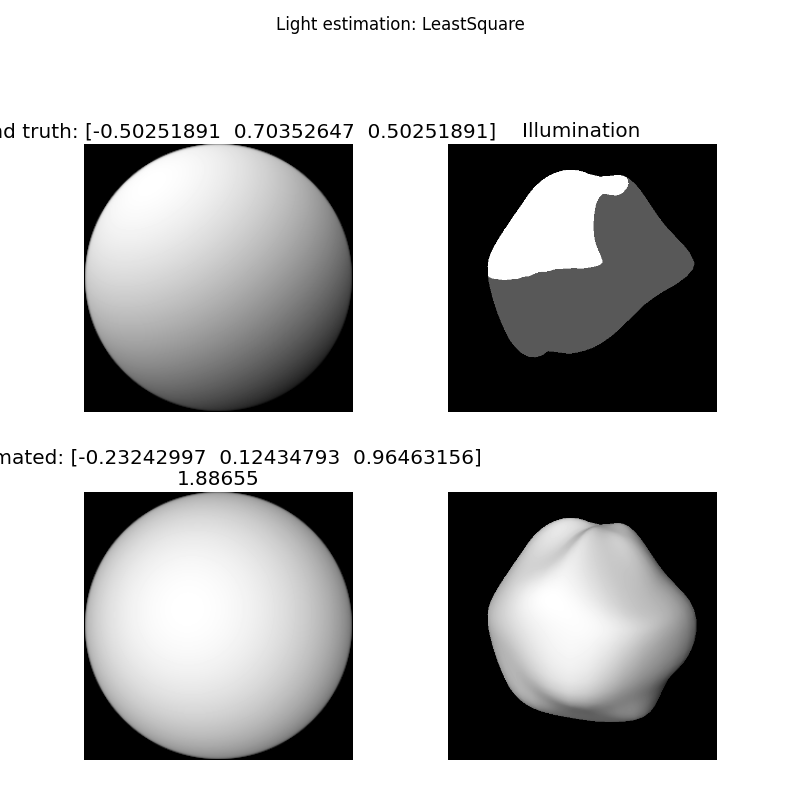
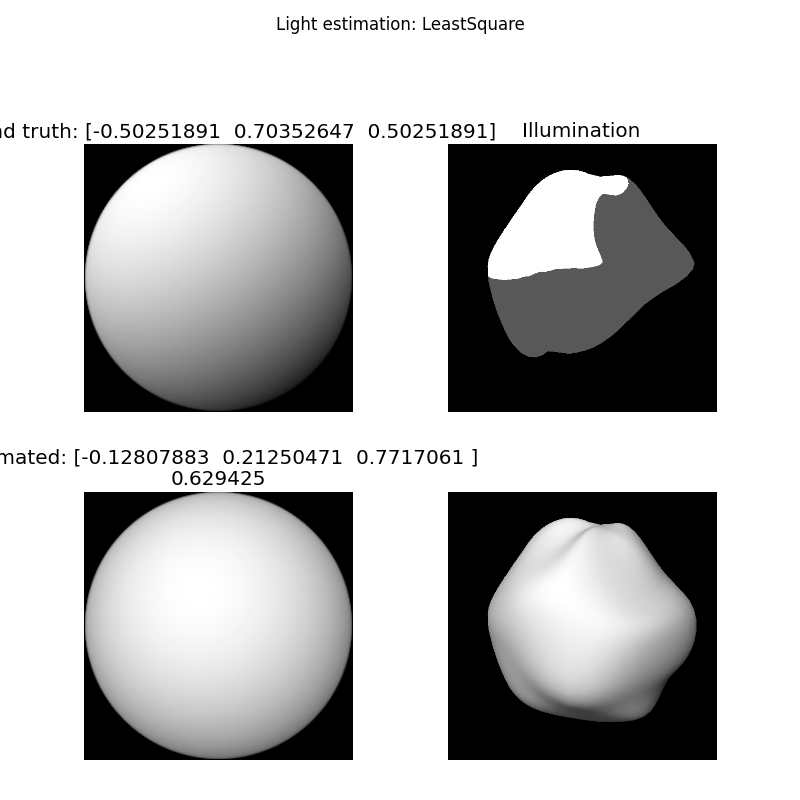
Update 3D projection code.

diff --git a/inversetoon/batch/cone_vs_project.py b/inversetoon/batch/cone_vs_project.py
@@ -19,6 +19,8 @@ from inversetoon.core.coloring import scalarToColor, scalarMap, colorNorm
 from inversetoon.np.norm import normVectors
 
 from inversetoon.util.logger import getLogger
+from inversetoon.results.results import resultDir, resultFile
+from inversetoon.core.angle import angleErros
 logger = getLogger(__name__)
 
 
@@ -32,6 +34,12 @@ def computeData(scene):
         isophote_segments = isophote_curve.toCurveSegments()
 
         for isophote_segment in isophote_segments:
+            L = isophote_segment.lightDir()
+            isophote_segment = isophote_segment.divide(int(0.2 * isophote_segment.numPoints()), int(0.5 * isophote_segment.numPoints()))
+
+            if isophote_segment.numPoints() < 3:
+                continue
+
             I = isophote_segment.isoValue()
             I = 2.0 * I - 1.0
 
@@ -46,12 +54,12 @@ def computeData(scene):
             tangents_2D = isophote_segment.tangents()
             tangents_3D = projectTangent3D(tangents_2D, normals_3D)
 
-            normals_3D = projectIteration(tangents_3D, normals_3D, parameters, 20)
+            normals_3D = projectIteration(L, I, tangents_3D, normals_3D, parameters, 40)
 
             ps = isophote_segment.points()
 
-            normals_al_error = normVectors(normals_gt - normals_al)
-            normals_3d_error = normVectors(normals_gt - normals_3D)
+            normals_al_error = angleErros(normals_gt, normals_al)
+            normals_3d_error = angleErros(normals_gt, normals_3D)
 
             data_list.append({"ps": ps,
                               "normals_gt": normals_gt,
@@ -62,62 +70,73 @@ def computeData(scene):
     return data_list
 
 
-def datasetFunc(data_name):
-    scene = loadData(data_name)
-    data_list = computeData(scene)
+def arcVSprojectFigure(scnene_plotter, data_name, segment_id, result_data):
+    fig, axes = plt.subplots(nrows=2, ncols=1, figsize=(11, 5))
+    font_size = 15
+    fig.subplots_adjust(left=0.15, right=0.9, top=0.86, hspace=0.1, wspace=0.05)
+    fig.suptitle("Arc Length VS Project 3D", fontsize=font_size)
 
-    plotter = ScenePlotter(scene, plt)
-
-    plt.title('Arc length VS Project 3D')
     plt.subplot(131)
-    plt.title('Normal Vectors')
-    plotter.showNormalImage()
+    plt.title('Normal Vectors\n', fontsize=font_size)
+    scnene_plotter.showNormalImage()
+    plt.axis('off')
 
     legend_gt = ("Ground truth", (1.0, 0.0, 0.0))
     legend_al = ("Arc length", (0.0, 1.0, 0.0))
     legend_3d = ("Project 3D", (0.0, 0.0, 1.0))
 
-    for data in data_list:
-        plotVectors(plt, data["ps"], data["normals_gt"], color=legend_gt[1])
-        plotVectors(plt, data["ps"], data["normals_al"], color=legend_al[1])
-        plotVectors(plt, data["ps"], data["normals_3D"], color=legend_3d[1])
+    plotVectors(plt, result_data["ps"], result_data["normals_gt"], color=legend_gt[1], l=70, step=2)
+    plotVectors(plt, result_data["ps"], result_data["normals_al"], color=legend_al[1], l=70, step=2)
+    plotVectors(plt, result_data["ps"], result_data["normals_3D"], color=legend_3d[1], l=70, step=2)
 
-    plt.legend(handles=[mpatches.Patch(color=legend_gt[1], label=legend_gt[0]),
+    plt.legend(bbox_to_anchor=(0.2, 1), handles=[mpatches.Patch(color=legend_gt[1], label=legend_gt[0]),
                         mpatches.Patch(color=legend_al[1], label=legend_al[0]),
                         mpatches.Patch(color=legend_3d[1], label=legend_3d[0])])
-    error_max = 0.0
+    error_max = 30.0
     error_min = 0.0
-    for data in data_list:
-        error_max = np.max([error_max, np.max(data["normals_al_error"])])
-        error_max = np.max([error_max, np.max(data["normals_3d_error"])])
-
-    logger.debug("error_range: %s - %s" %(error_min, error_max))
 
     plt.subplot(132)
-    plotter.showNormalImage()
-    plt.title('Arc length error')
-    for data in data_list:
-        error_colors = scalarToColor(data["normals_al_error"], vmin=error_min, vmax=error_max)
-
-        plotSegment(plt, data["ps"], error_colors)
-
-    scalar_map = scalarMap(error_min, error_max)
-    scalar_map.set_array([error_min, error_max])
-    plt.colorbar(scalar_map)
+    scnene_plotter.showNormalImage()
+    plt.axis('off')
+    plt.title('Arc length error\n %5.2f $^\circ$' %np.average(result_data["normals_al_error"]), fontsize=font_size)
+    error_colors = scalarToColor(result_data["normals_al_error"], vmin=error_min, vmax=error_max)
+    plotSegment(plt, result_data["ps"], error_colors)
 
     plt.subplot(133)
-    plotter.showNormalImage()
-    plt.title('Project 3D error')
-    for data in data_list:
-        error_colors = scalarToColor(data["normals_3d_error"], vmin=error_min, vmax=error_max)
+    scnene_plotter.showNormalImage()
+    plt.axis('off')
+    plt.title('Project 3D error\n %5.2f $^\circ$' %np.average(result_data["normals_3d_error"]), fontsize=font_size)
+    error_colors = scalarToColor(result_data["normals_3d_error"], vmin=error_min, vmax=error_max)
+    plotSegment(plt, result_data["ps"], error_colors)
 
-        plotSegment(plt, data["ps"], error_colors)
+    ax_colorbar = fig.add_axes([0.9, 0.15, 0.03, 0.7])
 
     scalar_map = scalarMap(error_min, error_max)
     scalar_map.set_array([error_min, error_max])
-    plt.colorbar(scalar_map)
-    showMaximize()
+    fig.colorbar(scalar_map, cax=ax_colorbar)
 
+    result_name = "arc_vs_project"
+    result_dir = resultDir(result_name)
+
+    result_file = resultFile(result_dir, data_name + "_%s" % segment_id)
+    plt.savefig(result_file, transparent=True)
+
+
+def resultDataFunc(scnene_plotter, data_name, segment_id, result_data):
+    if len(result_data["ps"]) < 30:
+        return
+
+    arcVSprojectFigure(scnene_plotter, data_name, segment_id, result_data)
+
+
+def datasetFunc(data_name):
+    scene = loadData(data_name)
+    result_data_list = computeData(scene)
+
+    scnene_plotter = ScenePlotter(scene, plt)
+
+    for i, result_data in enumerate(result_data_list):
+        resultDataFunc(scnene_plotter, data_name, i, result_data)
 
 if __name__ == '__main__':
     isophoteDataSetBatch(datasetFunc)

diff --git a/inversetoon/batch/cone_vs_curvature.py b/inversetoon/batch/cone_vs_curvature.py
@@ -75,7 +75,8 @@ def computeData(scene):
             I = 2.0 * I - 1.0
 
             curvatures = isophote_segment.curvatures()
-            curvatures = smoothing(curvatures, smooth=20.0)
+            curvatures = smoothing(curvatures, smooth=15.0)
+            curvatures = curvatures / np.max(np.abs(curvatures))
 
             normals_gt = isophote_segment.normals()
             parameters = isophote_segment.arcLengthParameters()
@@ -89,6 +90,7 @@ def computeData(scene):
 
             cone_angle_changes = isophote_segment.coneAngleChanges()
             cone_angle_changes = smoothing(cone_angle_changes, smooth=0.05)
+            cone_angle_changes = cone_angle_changes / np.max(np.abs(cone_angle_changes))
 
             misclassification = curvatures * cone_angle_changes
 
@@ -114,7 +116,7 @@ def curvatureVSconeAnglesFigure(scnene_plotter, data_name, segment_id, result_da
     fig, axes = plt.subplots(nrows=2, ncols=1, figsize=(11, 5))
     font_size = 15
     fig.subplots_adjust(left=0.05, right=0.95, top=0.86, hspace=0.1, wspace=0.05)
-    fig.suptitle("Curvature VS Cone Angles", fontsize=font_size)
+    fig.suptitle("Curvature VS Cone Angle", fontsize=font_size)
 
     plt.subplot(131)
     scnene_plotter.showNormalImage()
@@ -125,7 +127,7 @@ def curvatureVSconeAnglesFigure(scnene_plotter, data_name, segment_id, result_da
     plt.subplot(132)
     scnene_plotter.showNormalImage()
     plt.axis('off')
-    plt.title('Cone Angles\n', fontsize=font_size)
+    plt.title('Cone Angle\n', fontsize=font_size)
     plotFeatureChanges(plt, result_data["ps"], result_data["cone_angle_changes"])
 
     plt.subplot(133)
@@ -147,19 +149,21 @@ def curvatureVSconeAnglesSignal(scnene_plotter, data_name, segment_id, result_da
     fig, axes = plt.subplots(nrows=2, ncols=1, figsize=(11, 5))
     font_size = 15
     fig.subplots_adjust(left=0.05, right=0.9, top=0.86, hspace=0.1, wspace=0.05)
-    fig.suptitle("Curvature VS Cone Angles", fontsize=font_size)
+    fig.suptitle("Curvature VS Cone Angle", fontsize=font_size)
 
     plt.subplot(131)
     scnene_plotter.showNormalImage()
     plt.axis('off')
     plt.title('Curvature', fontsize=font_size)
-    plotFeatureChanges(plt, result_data["ps"], result_data["curvatures"])
+    curvature_colors = scalarToColor(result_data["curvatures"], vmin=-1.0, vmax=1.0)
+    plotSegment(plt, result_data["ps"], curvature_colors)
 
     plt.subplot(132)
     scnene_plotter.showNormalImage()
     plt.axis('off')
-    plt.title('Cone Angles', fontsize=font_size)
-    plotFeatureChanges(plt, result_data["ps"], result_data["cone_angle_changes"])
+    plt.title('Cone Angle', fontsize=font_size)
+    cone_colors = scalarToColor(result_data["cone_angle_changes"], vmin=-1.0, vmax=1.0)
+    plotSegment(plt, result_data["ps"], cone_colors)
 
     plt.subplot(133)
     plt.title('Signals', fontsize=font_size)
@@ -167,8 +171,8 @@ def curvatureVSconeAnglesSignal(scnene_plotter, data_name, segment_id, result_da
     curvatures = result_data["curvatures"]
     cone_angle_changes = result_data["cone_angle_changes"]
     rescaled_curvatures = rescaleCurvature(curvatures, [cone_angle_changes[0], cone_angle_changes[-1]])
-    plt.plot(xs, curvatures, label='Curvatures')
-    plt.plot(xs, cone_angle_changes, label='Cone Angles')
+    plt.plot(xs, curvatures, label='Curvature')
+    plt.plot(xs, cone_angle_changes, label='Cone Angle')
     # plt.plot(xs, rescaled_curvatures, label='Rescaled Curvatures')
     plt.legend()
 
@@ -226,9 +230,9 @@ def resultDataFunc(scnene_plotter, data_name, segment_id, result_data):
     if len(result_data["ps"]) < 30:
         return
 
-    curvatureVSconeAnglesNormal(scnene_plotter, data_name, segment_id, result_data)
-    #curvatureVSconeAnglesFigure(scnene_plotter, data_name, segment_id, result_data)
-    #curvatureVSconeAnglesSignal(scnene_plotter, data_name, segment_id, result_data)
+    # curvatureVSconeAnglesNormal(scnene_plotter, data_name, segment_id, result_data)
+    # curvatureVSconeAnglesFigure(scnene_plotter, data_name, segment_id, result_data)
+    curvatureVSconeAnglesSignal(scnene_plotter, data_name, segment_id, result_data)
 
 
 def datasetFunc(data_name):

diff --git a/inversetoon/core/project_normal_3d.py b/inversetoon/core/project_normal_3d.py
@@ -10,6 +10,7 @@ import numpy as np
 from inversetoon.np.norm import normalizeVectors
 from inversetoon.core.smoothing import smoothing
 
+
 def projectTangent3D(tangents_2D, normals):
     num_points = len(tangents_2D)
     tangents_3D = np.zeros((num_points, 3))
@@ -20,37 +21,67 @@ def projectTangent3D(tangents_2D, normals):
         tangent = tangents_3D[i]
         normal = normals[i]
 
-        bi_normal = np.cross(tangent, normal)
-        tangents_3D[i] = np.cross(normal, bi_normal)
+        tangents_3D[i, 2] = - (normal[0] * tangent[0] + normal[1] * tangent[1]) / normal[2]
 
-    tangents_3D = normalizeVectors(tangents_3D)
+    # tangents_3D = normalizeVectors(tangents_3D)
     return tangents_3D
 
 
 def smoothing3DVectors(vectors_3D, parameters):
-    vectors_3D = smoothing(vectors_3D, parameters, smooth=1000.0)
+    vectors_3D = smoothing(vectors_3D, parameters, smooth=0.01)
     vectors_3D = normalizeVectors(vectors_3D)
     return vectors_3D
 
 
-def projectNormals(tangents_3D, normals):
+def smoothingTangentZ(tangents_3D, parameters):
+    tangents_3D[:, 2] = smoothing(tangents_3D[:, 2], parameters, smooth=1.0)
+    return tangents_3D
+
+
+def projectNormals(L, I, tangents_3D, normals):
     normals_smooth = np.array(normals)
     num_points = len(normals)
 
     for i in range(num_points):
-        tangent = tangents_3D[i]
-        normal = normals[i]
+        T = tangents_3D[i]
+        N = normals[i]
 
-        bi_normal = np.cross(normal, tangent)
-        normals_smooth[i] = np.cross(tangent, bi_normal)
+        NdL = np.dot(N, L)
+
+        dN_L = (I - NdL) * L
+
+        NdT = np.dot(N, T)
+        dN_T = - NdT * T
+
+        normals_smooth[i] = N + dN_L + dN_T
     normals_smooth = normalizeVectors(normals_smooth)
     return normals_smooth
 
 
-def projectIteration(tangents_3D, normals_3D, parameters, num_iterations=3):
+def preserveEndPoints(N_st, N_ed, normals_3D, sigma=0.05):
+    params = np.linspace(0.0, 1.0, len(normals_3D))
+
+    w_st = np.exp( - params * params / (sigma * sigma))
+    params_inv = 1.0 - params
+    w_ed = np.exp( - params_inv * params_inv / (sigma * sigma))
+
+    for i in range(3):
+        normals_3D[:, i] = (1.0 - w_st) * normals_3D[:, i] + w_st * N_st[i]
+        normals_3D[:, i] = (1.0 - w_ed) * normals_3D[:, i] + w_ed * N_ed[i]
+
+
+def projectIteration(L, I, tangents_3D, normals_3D, parameters, num_iterations=3):
+
+    N_st = normals_3D[0]
+    N_ed = normals_3D[-1]
+
+    I = 0.5 * (np.dot(N_st, L) + np.dot(N_ed, L))
+
     for iter in xrange(num_iterations):
         tangents_3D = projectTangent3D(tangents_3D, normals_3D)
+        tangents_3D = smoothingTangentZ(tangents_3D, parameters)
         tangents_3D = smoothing3DVectors(tangents_3D, parameters)
-        normals_3D = projectNormals(tangents_3D, normals_3D)
+        normals_3D = projectNormals(L, I, tangents_3D, normals_3D)
+        preserveEndPoints(N_st, N_ed, normals_3D)
         normals_3D = smoothing3DVectors(normals_3D, parameters)
     return normals_3D

diff --git a/inversetoon/core/light_estimation/light_estimation.py b/inversetoon/core/light_estimation/light_estimation.py
@@ -19,7 +19,7 @@ def estimateLightDir(Ns, Is):
     Is = Is[I_positive]
 
     NdLs = Is
-    L = estimateLightDirProjection(Ns, NdLs)
+    L = estimateLightDirLstSq(Ns, NdLs)
 
     error = np.linalg.norm(np.dot(Ns, L) - NdLs)
 
